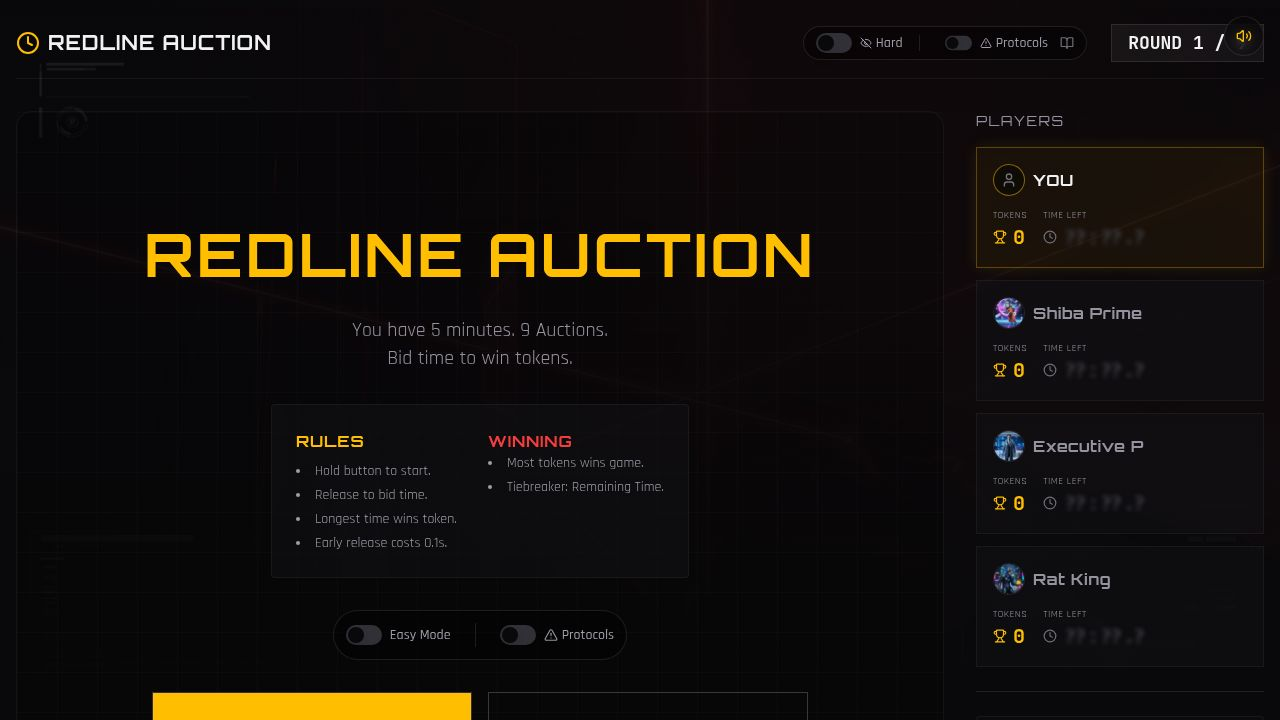
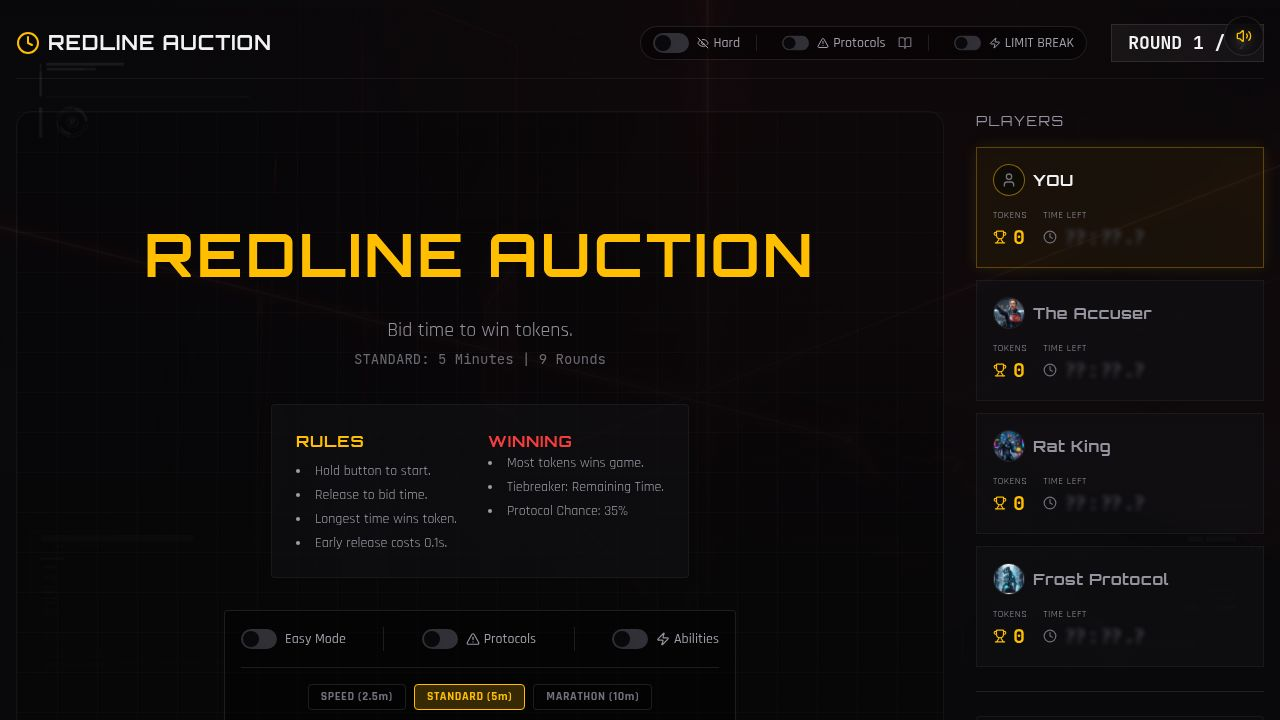
Center popups and add notifications for player abilities
Update popup positioning to center below the bid button, adjust game modes to include 9 rounds for speed, and implement notifications for character ability triggers.

Replit-Commit-Author: Agent
Replit-Commit-Session-Id: b6258731-d8e0-41a3-9b4d-e4f98fea158f
Replit-Commit-Checkpoint-Type: full_checkpoint
Replit-Commit-Event-Id: 153696ff-08b0-4a60-bf5f-b6a753f56f13
Replit-Commit-Screenshot-Url: https://storage.googleapis.com/screenshot-production-us-central1/4e6a843e-db8d-4d3c-ab89-239354a908ce/b6258731-d8e0-41a3-9b4d-e4f98fea158f/9emTbyh
Replit-Helium-Checkpoint-Created: true

diff --git a/client/src/components/game/GameOverlay.tsx b/client/src/components/game/GameOverlay.tsx
@@ -18,6 +18,7 @@ export type OverlayType =
   | "bad_judgment"
   | "zero_bid"
   | "protocol_alert"
+  | "ability_trigger"
   | null;
 
 interface GameOverlayProps {
@@ -63,6 +64,7 @@ export function GameOverlay({ type, message, subMessage, onComplete }: GameOverl
       case "bad_judgment": return <ThumbsDown size={48} className="text-red-400" />;
       case "zero_bid": return <AlertTriangle size={48} className="text-yellow-200" />;
       case "protocol_alert": return <AlertTriangle size={48} className="text-destructive animate-pulse" />;
+      case "ability_trigger": return <Zap size={48} className="text-blue-400" />;
       
       default: return null;
     }
@@ -83,6 +85,7 @@ export function GameOverlay({ type, message, subMessage, onComplete }: GameOverl
       case "eliminated":
       case "protocol_alert":
         return "text-destructive border-destructive/20 bg-black/80";
+      case "ability_trigger": return "text-blue-400 border-blue-500/20 bg-black/80";
       case "comeback_hope": return "text-emerald-400 border-emerald-500/20 bg-black/80";
       case "smug_confidence": return "text-purple-400 border-purple-500/20 bg-black/80";
       case "bad_judgment": return "text-red-400 border-red-500/20 bg-black/80";
@@ -97,7 +100,7 @@ export function GameOverlay({ type, message, subMessage, onComplete }: GameOverl
   return (
     <AnimatePresence>
       {type && (
-        <div className="fixed inset-0 z-50 flex items-end justify-center pointer-events-none p-8 pb-32">
+        <div className="fixed inset-0 z-50 flex items-center justify-center pointer-events-none p-8" style={{ paddingTop: '20vh' }}>
           <motion.div 
             key="overlay-content" // Force re-render if needed, but framer handles it
             className={`flex flex-col items-center justify-center py-6 px-12 rounded-2xl border backdrop-blur-xl shadow-2xl ${getColor()} min-w-[400px] text-center pointer-events-auto`}

diff --git a/client/src/pages/Game.tsx b/client/src/pages/Game.tsx
@@ -56,7 +56,7 @@ const STANDARD_TOTAL_ROUNDS = 9;
 const STANDARD_INITIAL_TIME = 300.0;
 const LONG_TOTAL_ROUNDS = 18;
 const LONG_INITIAL_TIME = 600.0;
-const SHORT_TOTAL_ROUNDS = 5;
+const SHORT_TOTAL_ROUNDS = 9; // Changed from 5 to 9 as requested
 const SHORT_INITIAL_TIME = 150.0;
 
 const COUNTDOWN_SECONDS = 3; 
@@ -753,6 +753,13 @@ export default function Game() {
       message: overlayMsg, 
       subMessage: overlaySub 
     });
+
+    if (abilityTriggered) {
+        // Queue ability popup slightly after result popup
+        setTimeout(() => {
+            setOverlay({ type: 'ability_trigger', message: abilityMsg, subMessage: 'Limit Break Activated!' });
+        }, 2000);
+    }
     
     // Add to log
     const logMsg = winnerId 
